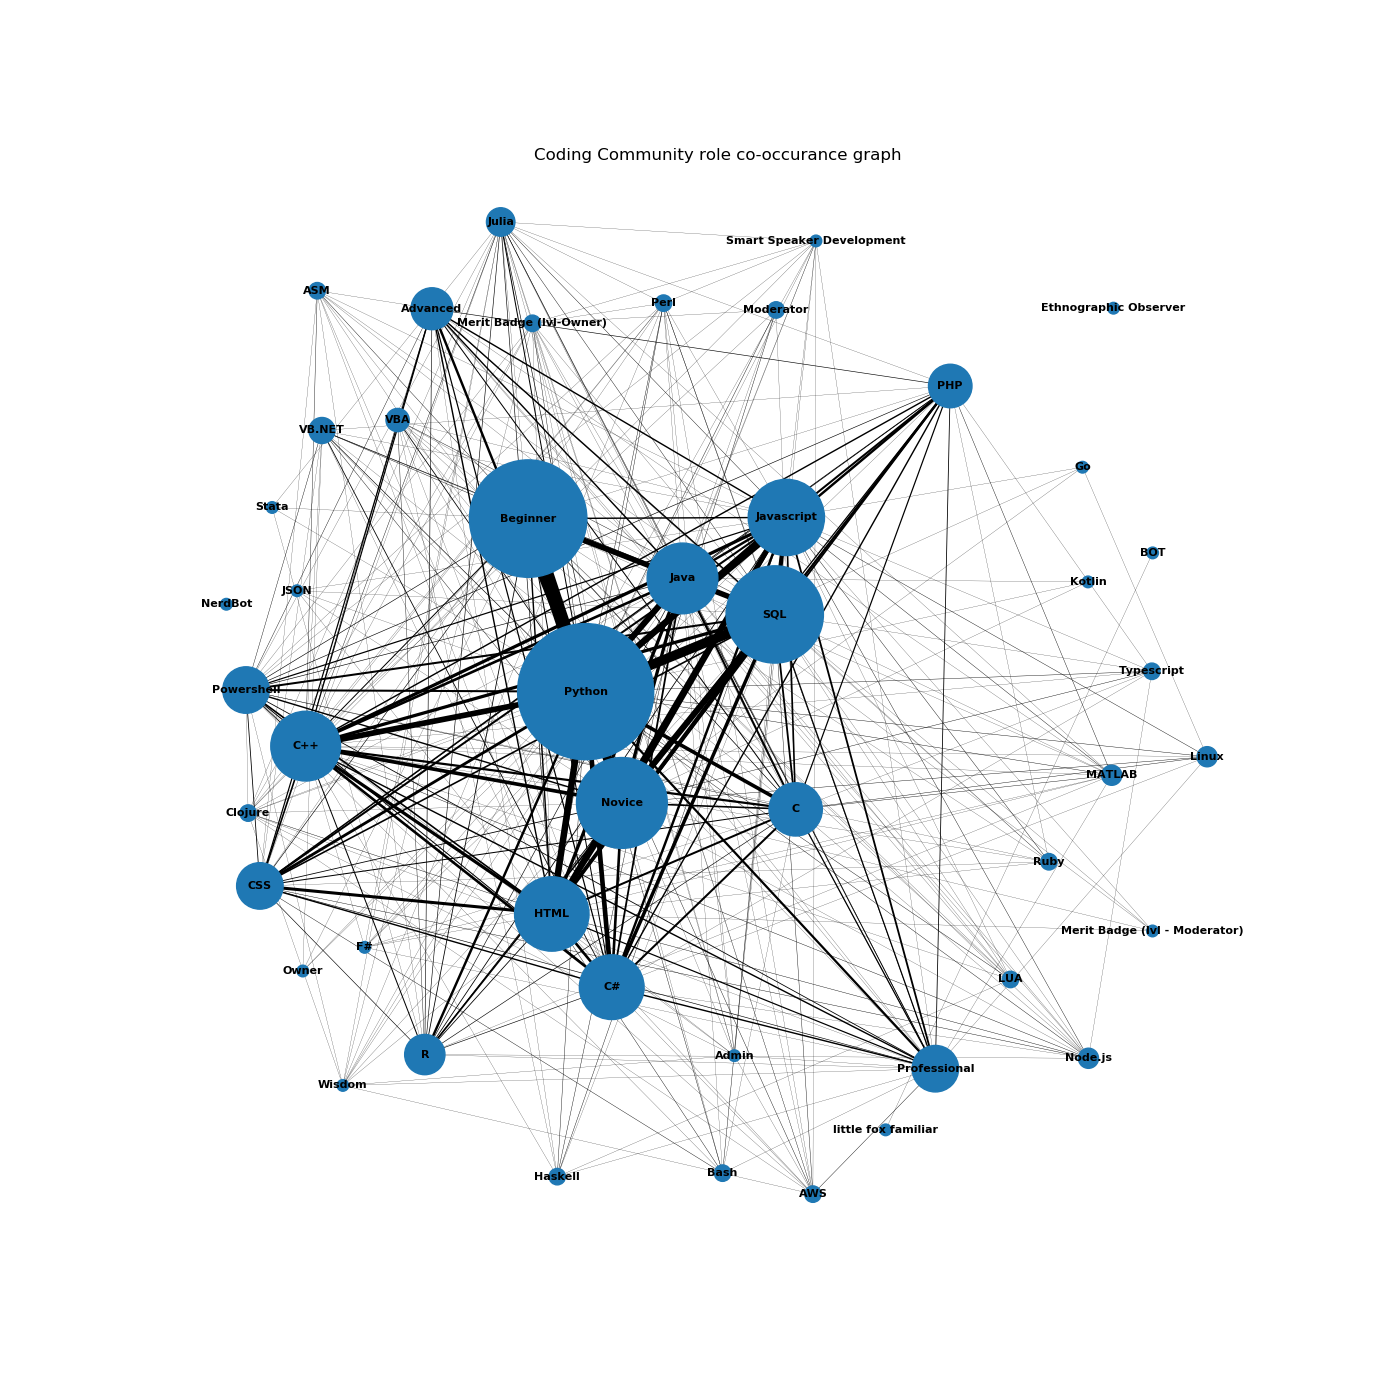
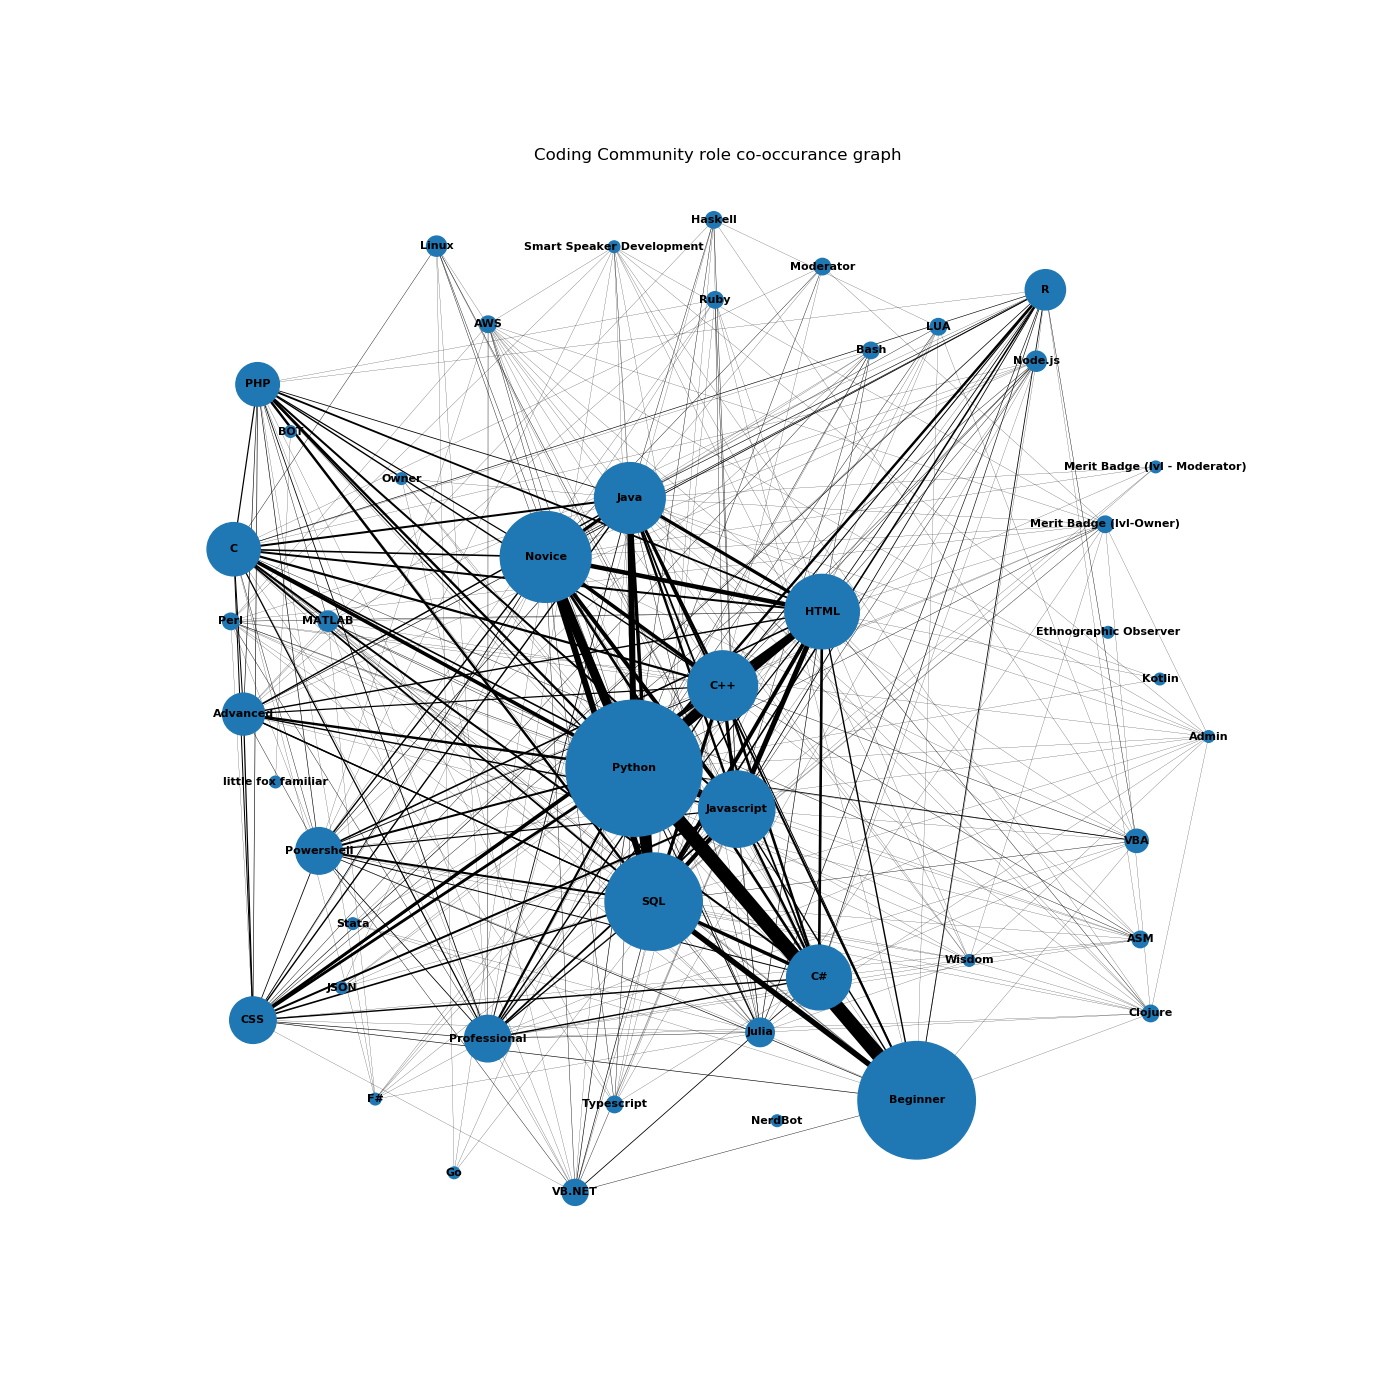
Added networkplot feature to readme

Changed region(s): [[0.1229, 0.1536, 0.8907, 0.86], [0.86, 0.3071, 0.8907, 0.3379]]

diff --git a/ReadMe.md b/ReadMe.md
@@ -15,11 +15,13 @@ Discord, Bot, Python, Moderation
 * [pandas](https://github.com/pandas-dev/pandas)
 * [matplotlib](https://github.com/matplotlib/matplotlib)
 * [aiohttp](https://github.com/aio-libs/aiohttp)
+* [networkx](https://github.com/networkx)
 
 <b>Features</b>
 
-* Role statistics - Generate a plot of how many people are assigned to each role in the server
-
+* Role statistics - 
+    - b!plot - Generate a plot of how many people are assigned to each role in the server
+    - b!networkplot - Generate a network graph of role co-occurance.
 * Verification - Users will join as 'unverified', to verify users will be given one of three different types of challenge prompts that they must successfully answer to become a verified member
 
 * Incident Reports - When a user is kicked, banned, or unbanned it will auto generate an incident report and a 'receipt' will be sent via DM to both the recipient and the staff member that issued it. 
